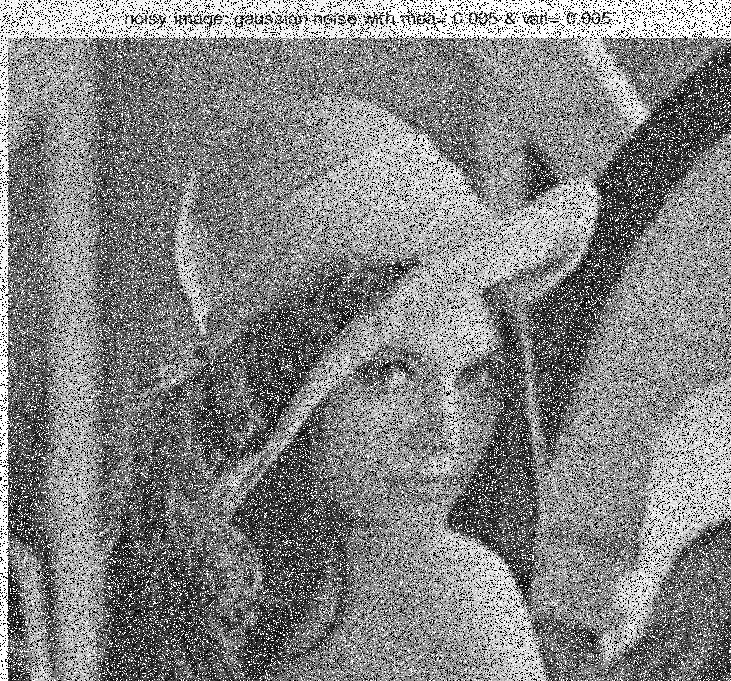
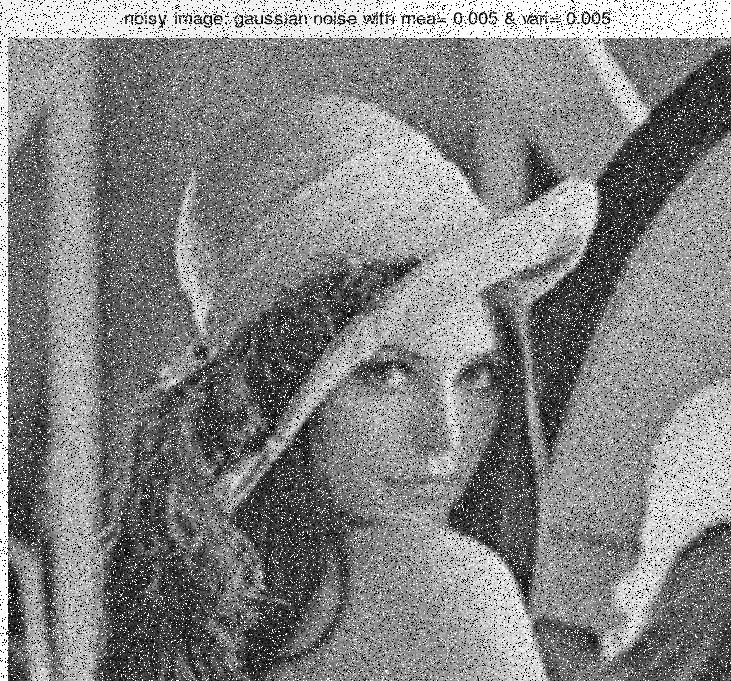
concatenazione filtri con interazione utente da terminale

diff --git a/main.py b/main.py
@@ -1,6 +1,40 @@
 from utils import load_image, save_image, create_output_folder, add_noise
-from filters import mean_filter, gaussian_filter,median_filter,adaptive_median_filter,bilateral_filter
+from filters import mean_filter, gaussian_filter, median_filter, adaptive_median_filter, bilateral_filter
 import numpy as np
+
+# Dizionario dei filtri disponibili
+filtro_catalogo = {
+    "1": {"name": "Filtro di Media", "func": mean_filter, "params": ["kernel_size"]},
+    "2": {"name": "Filtro Gaussiano", "func": gaussian_filter, "params": ["kernel_size", "sigma"]},
+    "3": {"name": "Filtro Mediano", "func": median_filter, "params": ["kernel_size"]},
+    "4": {"name": "Filtro Mediano Adattivo", "func": adaptive_median_filter, "params": ["max_kernel_size"]},
+    "5": {"name": "Filtro Bilaterale", "func": bilateral_filter, "params": ["kernel_size", "sigma_spatial", "sigma_intensity"]},
+}
+
+def scegli_filtri():
+    print("\n🎛  Filtri disponibili:")
+    for k, v in filtro_catalogo.items():
+        print(f"{k}. {v['name']}")
+
+    selezione = input("\nInserisci i numeri dei filtri da applicare (es: 1 3 5): ").split()
+    sequenza = []
+
+    for scelta in selezione:
+        if scelta in filtro_catalogo:
+            filtro = filtro_catalogo[scelta]
+            parametri = {}
+            print(f"\n➡  Parametri per {filtro['name']}:")
+            for p in filtro["params"]:
+                val = input(f" - {p}: ")
+                parametri[p] = float(val) if "." in val else int(val)
+            sequenza.append({
+                "name": filtro["name"],
+                "func": filtro["func"],
+                "params": parametri
+            })
+        else:
+            print(f"⚠  Filtro {scelta} non valido, ignorato.")
+    return sequenza
 
 def main():
     input_path = "images/input.png"
@@ -12,54 +46,46 @@ def main():
 
     # Carica immagine originale
     image = load_image(input_path)
-    
-    #  Aggiungi rumore artificiale (es. gaussiano)
-    noisy_image = add_noise(image, noise_type="salt_pepper", amount=30)
 
+    # Aggiungi rumore artificiale
+    noisy_image = add_noise(image, noise_type="salt_pepper", amount=15)
     save_image(noisy_image, noisy_path)
 
-  
+    # Richiesta filtri all’utente
+    filters_to_apply = scegli_filtri()
 
-    # Filtro di media
-    # filtered_image = mean_filter(noisy_image, kernel_size=3)
-    # filtro_descrizione = "Filtro di Media (3x3)"
+    # Applica i filtri scelti
+    filtered_image = noisy_image
+    descrizioni = []
 
-    # Filtro Gaussiano
-    #filtered_image = gaussian_filter(image, kernel_size=5, sigma=1.0)
-    #filtro_descrizione = "Filtro Gaussiano (5x5, σ = 1.0)"
+    for filtro in filters_to_apply:
+        filtered_image = filtro["func"](filtered_image, **filtro["params"])
+        descrizioni.append(f"{filtro['name']} {filtro['params']}")
 
-    # Filtro Mediano
-    #filtered_image = median_filter(noisy_image, kernel_size=3)
-    #filtro_descrizione = "Filtro Mediano (3x3)"
-
-    # Filtro Mediano Adattivo
-    #filtered_image = adaptive_median_filter(image, max_kernel_size=7)
-    #filtro_descrizione = "Filtro Mediano Adattivo (fino a 7x7)"
-
-    # Filtro Bilaterale
-    filtered_image = bilateral_filter(image, kernel_size=5, sigma_spatial=2.0, sigma_intensity=30.0)
-    filtro_descrizione = "Filtro Bilaterale (5x5, σ_spaziale = 2.0, σ_intensità = 30.0)"
-
+    # Salva immagine finale
     save_image(filtered_image, output_image_path)
 
-    #  Dati statistici per il log
-    mean_before = np.mean(image)
+    # Statistiche
+    mean_before = np.mean(noisy_image)
     mean_after = np.mean(filtered_image)
-    var_before = np.var(image)
+    var_before = np.var(noisy_image)
     var_after = np.var(filtered_image)
 
-    #  Log dettagliato
+    # Log dettagliato
     with open(output_log_path, "w", encoding="utf-8") as log_file:
         log_file.write("LOG DEL PROGRAMMA\n")
-        log_file.write(f"Filtro applicato: {filtro_descrizione}\n")
-        log_file.write("Rumore aggiunto: Gaussiano (σ = 30)\n")
-        log_file.write(f"Media pixel prima del filtro: {mean_before:.2f}\n")
-        log_file.write(f"Media pixel dopo il filtro: {mean_after:.2f}\n")
-        log_file.write(f"Varianza prima del filtro: {var_before:.2f}\n")
-        log_file.write(f"Varianza dopo il filtro: {var_after:.2f}\n")
-        log_file.write(f"Immagini salvate in: {output_image_path}, {noisy_path}\n")
+        log_file.write("Rumore aggiunto: sale e pepe (amount = 30)\n\n")
+        log_file.write("Filtri applicati in sequenza:\n")
+        for desc in descrizioni:
+            log_file.write(f"  - {desc}\n")
+        log_file.write("\n")
+        log_file.write(f"Media pixel prima dei filtri: {mean_before:.2f}\n")
+        log_file.write(f"Media pixel dopo i filtri: {mean_after:.2f}\n")
+        log_file.write(f"Varianza prima dei filtri: {var_before:.2f}\n")
+        log_file.write(f"Varianza dopo i filtri: {var_after:.2f}\n")
+        log_file.write(f"\nImmagini salvate in:\n - {noisy_path} (rumore)\n - {output_image_path} (filtrata)\n")
 
-    print("Filtro applicato con successo. Log e immagini salvati.")
+    print("\n✅ Filtri applicati con successo. Immagini e log salvati.")
 
 if __name__ == "__main__":
     main()

diff --git a/main_statico.py b/main_statico.py
@@ -1,0 +1,65 @@
+from utils import load_image, save_image, create_output_folder, add_noise
+from filters import mean_filter, gaussian_filter,median_filter,adaptive_median_filter,bilateral_filter
+import numpy as np
+
+def main():
+    input_path = "images/input.png"
+    noisy_path = "output/noisy.jpg"
+    output_image_path = "output/output.jpg"
+    output_log_path = "output/log.txt"
+
+    create_output_folder()
+
+    # Carica immagine originale
+    image = load_image(input_path)
+    
+    #  Aggiungi rumore artificiale (es. gaussiano)
+    noisy_image = add_noise(image, noise_type="salt_pepper", amount=30)
+
+    save_image(noisy_image, noisy_path)
+
+  
+
+    # Filtro di media
+    # filtered_image = mean_filter(noisy_image, kernel_size=3)
+    # filtro_descrizione = "Filtro di Media (3x3)"
+
+    # Filtro Gaussiano
+    #filtered_image = gaussian_filter(image, kernel_size=5, sigma=1.0)
+    #filtro_descrizione = "Filtro Gaussiano (5x5, σ = 1.0)"
+
+    # Filtro Mediano
+    #filtered_image = median_filter(noisy_image, kernel_size=3)
+    #filtro_descrizione = "Filtro Mediano (3x3)"
+
+    # Filtro Mediano Adattivo
+    #filtered_image = adaptive_median_filter(image, max_kernel_size=7)
+    #filtro_descrizione = "Filtro Mediano Adattivo (fino a 7x7)"
+
+    # Filtro Bilaterale
+    filtered_image = bilateral_filter(image, kernel_size=5, sigma_spatial=2.0, sigma_intensity=30.0)
+    filtro_descrizione = "Filtro Bilaterale (5x5, σ_spaziale = 2.0, σ_intensità = 30.0)"
+
+    save_image(filtered_image, output_image_path)
+
+    #  Dati statistici per il log
+    mean_before = np.mean(image)
+    mean_after = np.mean(filtered_image)
+    var_before = np.var(image)
+    var_after = np.var(filtered_image)
+
+    #  Log dettagliato
+    with open(output_log_path, "w", encoding="utf-8") as log_file:
+        log_file.write("LOG DEL PROGRAMMA\n")
+        log_file.write(f"Filtro applicato: {filtro_descrizione}\n")
+        log_file.write("Rumore aggiunto: Gaussiano (σ = 30)\n")
+        log_file.write(f"Media pixel prima del filtro: {mean_before:.2f}\n")
+        log_file.write(f"Media pixel dopo il filtro: {mean_after:.2f}\n")
+        log_file.write(f"Varianza prima del filtro: {var_before:.2f}\n")
+        log_file.write(f"Varianza dopo il filtro: {var_after:.2f}\n")
+        log_file.write(f"Immagini salvate in: {output_image_path}, {noisy_path}\n")
+
+    print("Filtro applicato con successo. Log e immagini salvati.")
+
+if __name__ == "__main__":
+    main()
